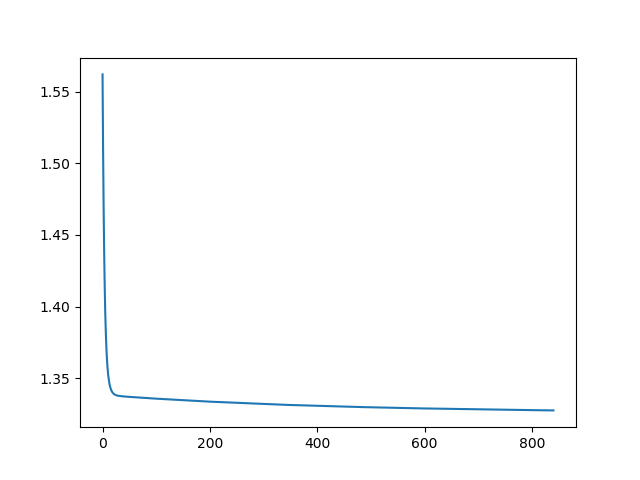
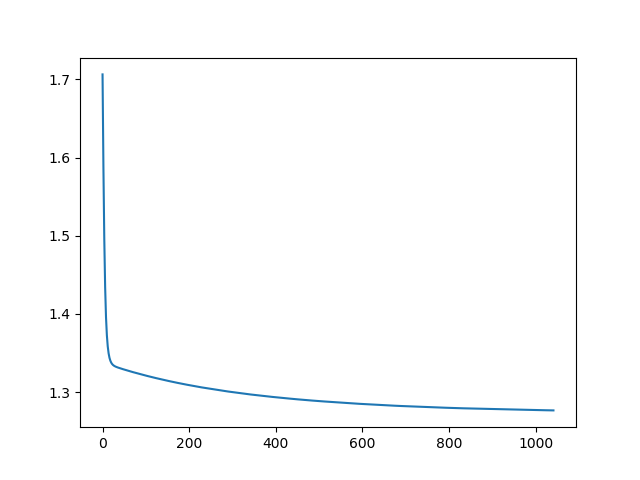
correcting one of c

diff --git a/3.MLP/network_classify.py b/3.MLP/network_classify.py
@@ -62,10 +62,12 @@ class MultiLayerPerceptron:
         # self.expected_outputs = self.normalize_output(config_neuron['expected_outputs'])
         self.expected_outputs = config_neuron['expected_outputs']
 
+        last_layer = layers[len(layers)-1]
+
         if self.codification == "sequencial":
-            layers[len(layers)-1]["quantity"] = config_neuron['output_classes'].bit_length()
+            last_layer["quantity"] = config_neuron['output_classes'].bit_length()
         elif (self.codification == "oneofc"):
-            layers[len(layers)-1]["quantity"] = config_neuron['output_classes']
+            last_layer["quantity"] = config_neuron['output_classes']
 
         for index, layer in enumerate(layers):
             self.layers_node.append([])
@@ -134,10 +136,15 @@ class MultiLayerPerceptron:
         if self.codification == "sequencial":
             binar = bin(int(output))
             binar = binar if len(binar) > 3 else "0b01"
+
             node_output = int(binar[node_index+2])
+
             return 1 if node_output else -1
+
         elif self.codification == "oneofc":
-            return 1 if node_index + 1 == output else -1
+            node_output = 1 if node_index + 1 == output else -1
+            # print(node_output, node_index + 1, output)
+            return node_output
     
     def get_error(self, sample_index: int):
         error = 0
@@ -364,8 +371,8 @@ class MultiLayerPerceptron:
         self.clean_recursion_output()
 
         for sample_index, sample in enumerate(samples):
-            bigger = 0
-            bigger_index = 0
+            bigger = -math.inf
+            bigger_class = 0
             sequencial_bits = ""
 
             for index, node in enumerate(self.last_layer_nodes):
@@ -377,12 +384,12 @@ class MultiLayerPerceptron:
                 elif (self.codification == "oneofc"):
                     if bigger < output:
                         bigger = output
-                        bigger_index = index + 1
+                        bigger_class = index + 1
             
             if self.codification == "sequencial":
                 outputs.append(int(sequencial_bits, 2))
             elif (self.codification == "oneofc"):
-                outputs.append(bigger_index)
+                outputs.append(bigger_class)
         # eqm = self.calc_eqm()
 
         # self.printer.print_msg("EQM: " + str(eqm))

diff --git a/3.MLP/main_mlp_classificacao.py b/3.MLP/main_mlp_classificacao.py
@@ -152,7 +152,7 @@ PMC3 = {
 }
 
 PMC4 = {
-    "name": "PMC3",
+    "name": "PMC4",
     "layers" :[
         {
             "neuron_type": 'perceptron',
@@ -194,8 +194,8 @@ config_neuron = {
 for PMC in PMCs:
     for learning_rate in learning_rates:
 ############# 1 #############
-        config_neuron["codification"] = "sequencial"
-        routine_adaline("1_"+PMC["name"]+"_"+str(learning_rate), PMC, config_neuron, True)
+        # config_neuron["codification"] = "sequencial"
+        # routine_adaline("1_"+PMC["name"]+"_"+str(learning_rate), PMC, config_neuron, True)
 # ############# 2 #############
         config_neuron["codification"] = "oneofc"
         routine_adaline("2_"+PMC["name"]+"_"+str(learning_rate), PMC, config_neuron, True)
